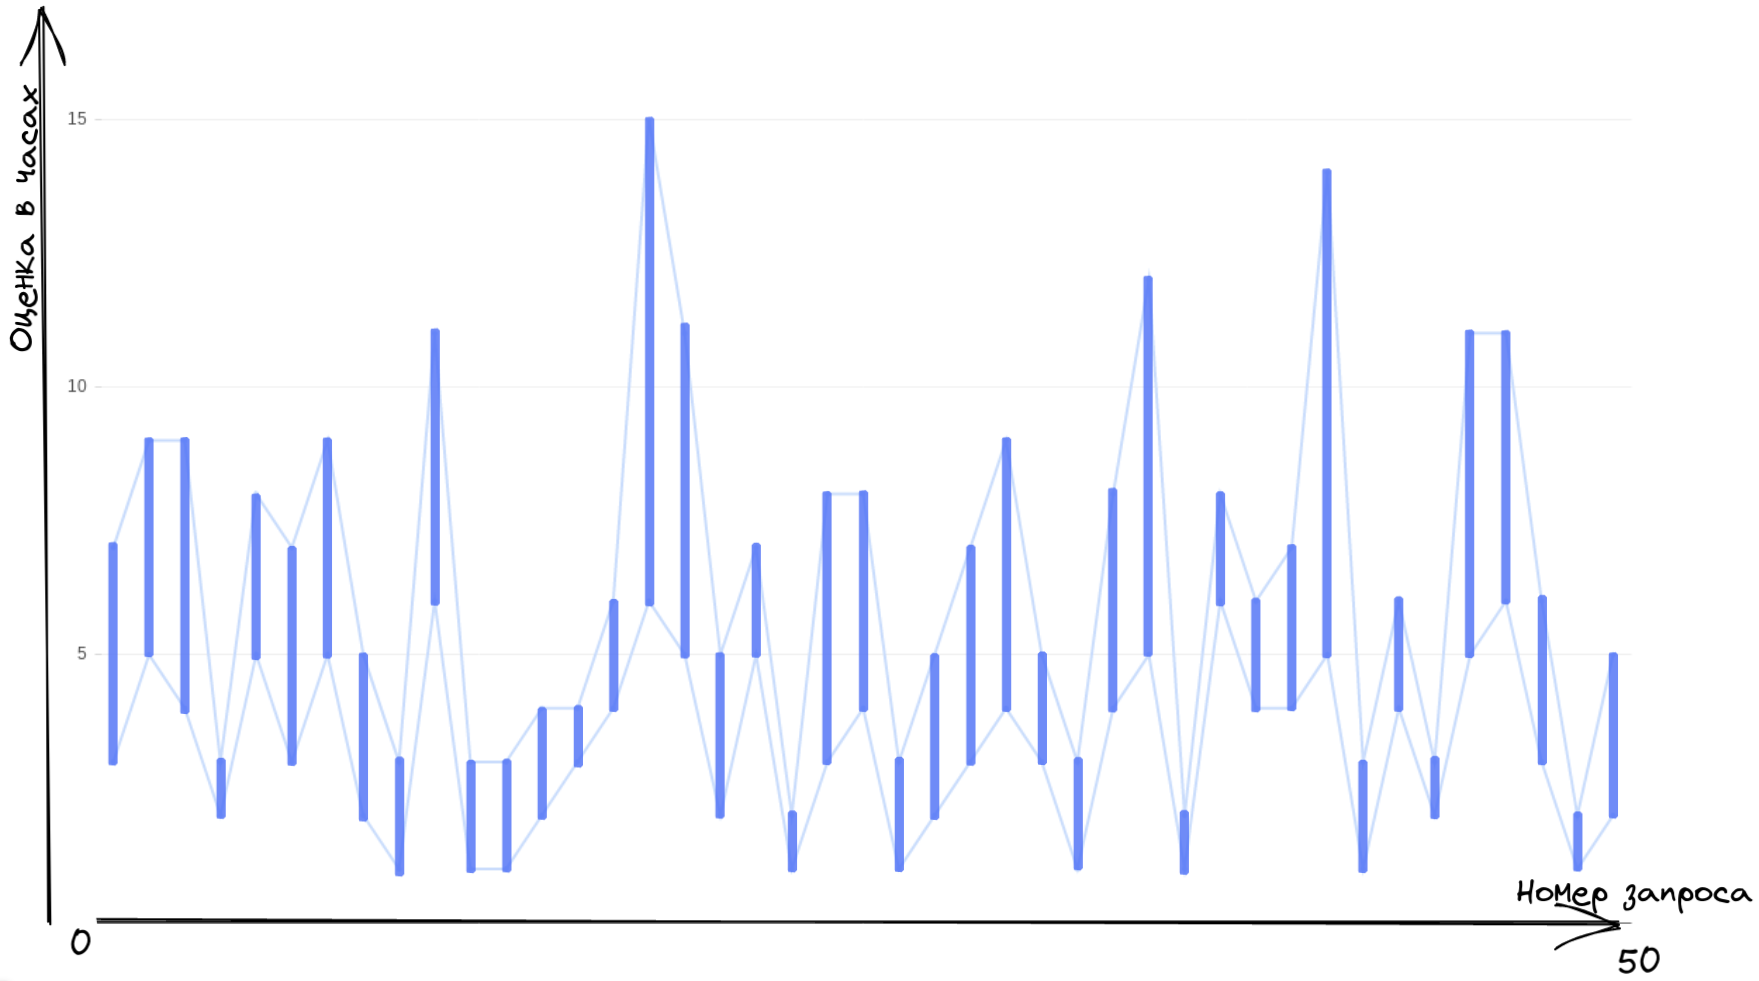
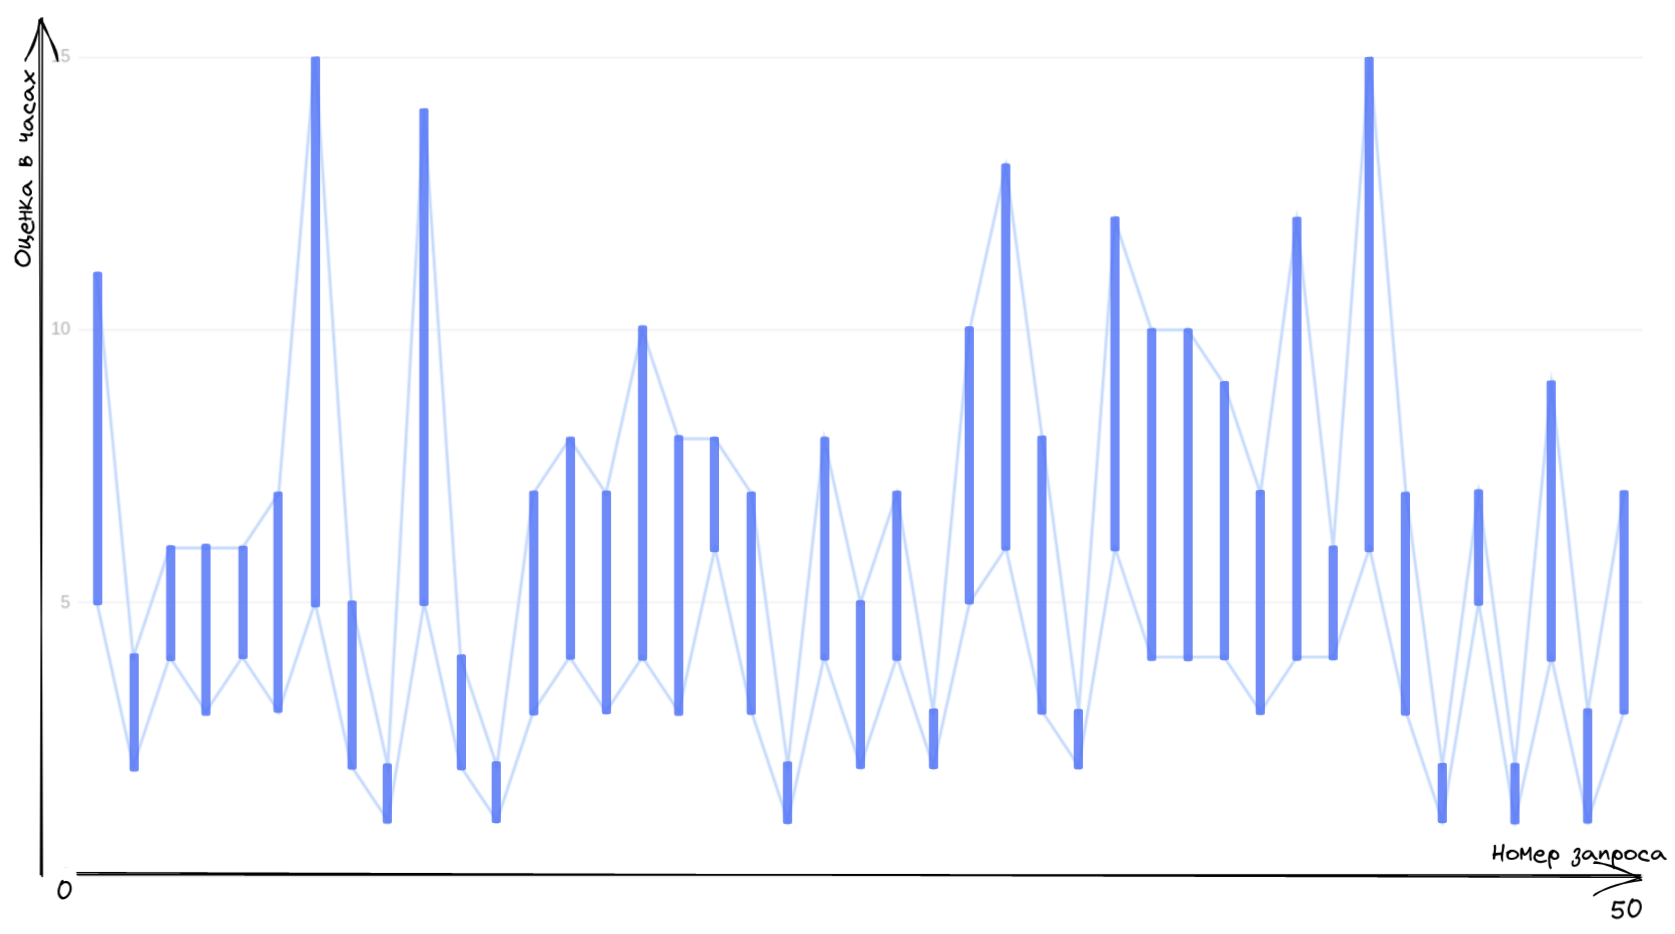
Добавил про сумму распределения вероятностей оптимистичной и пессимистичной оценки

Changed region(s): [[0.0, 0.0, 0.9934, 0.9936]]

diff --git a/posts/Вариабельность.md b/posts/Вариабельность.md
@@ -76,17 +76,17 @@
 
 Похоже что-то начинает проясняться. 
 
-Давайте уточним у Васи: "А если мы попросим Петю помочь тебе сразу же, как только ты обратишься. Если Петя будет реагировать на твои просьбы моментально, то за сколько сделаешь?"
+Давайте уточним у Васи: "Давай мы попросим Петю помочь тебе сразу же, как только ты к нему обратишься. Петя будет реагировать на твои просьбы моментально. С таким подходом за сколько сделаешь?"
 
 Вася: "Ну, в этом случае за 8 часов справлюсь!"
 
 Опа!
 
-Вот так мы отрезали длинный хвост у нашего распределения вероятностей выполнения задачи и можем с уверенностью заявлять, что Вася сделает любую работу за 8 часов!
+Вот так мы отрезали длинный хвост у нашего распределения вероятностей выполнения задачи. Теперь можем с уверенностью заявлять, что Вася сделает любую работу за 8 часов!
 
 ![Отрезали длинный хвост](res/ksnip_20220721-175234.png)
 
-Вася выдаёт оценки. Мы знаем разброс этих оценок и можем на них опираться в нашей деятельности.
+Вася выдаёт оценки. Мы знаем разброс этих оценок. А редкие неожиданные ситуации мы победили. Теперь не только Вася может говорить, что он надёжный специалист, но и мы можем быть уверены, что наша система оценки задач - надёжна и её можно успешно использовать в нашей деятельности по планированию работ.
 
 Красота-то какая! Лепота!
 
@@ -148,7 +148,7 @@
 
 ![Набор диапазонов оценок](res/ksnip_20220727-174015.png)
 
-Похоже что нам встречаются разные задачи - у одних большой размах между оптимистичной и пессиместичной оценкой у других - маленький.
+Похоже, что нам встречаются разные задачи - у одних большой размах между оптимистичной и пессимистичной оценкой у других - маленький.
 
 Поговорив с Васей, выясняем следующее:
 
@@ -161,19 +161,27 @@
 - со средней вариабельностью
 - с высокой вариабельностью.
 
-Для прогнозов с низкой вариабельностью можно взять другой масштаб для шкалы: вместо "от 4 до 6 часов" просто говорить "один рабочий день".
+![Группы вариабельностей](res/ksnip_20220730-163334.png)
+
+Прогнозы с низкой вариабельностью нас устраивают. Оценки тут вполне точные. 
 
 А вот что делать с двумя другими группами - со средней и высокой вариабельностью?
 
-Посмотрите на картинку выше. Давайте снова посмотрим как часто нам встречаются те или иные оценки. Но в этот раз сделаем два отдельных графика: По пессимистичной оценке и по оптимистичной. 
+Давайте снова посмотрим на количество оценок внутри группы со средней и с высокой вариабельностью. В этот раз сделаем два отдельных графика: По пессимистичной оценке и по оптимистичной. 
 
 
+Нужнен график различий между оптимистичной оценко
+
+
+
+--
 
 ### Как нам найти это препятствие к точному прогнозу? 
-
+--
 
 ### Сможем ли мы что-то сделать с этим препятствием для повышения точности прогноза?
 
+--
 
 
 
@@ -181,6 +189,11 @@
 # Вариабельность присуща любому повторяющемуся процессу.
 
 
+Выводы:
+- Чем лучше мы работаем с выбросами вариабельности, тем большая надёжность у наших оценок.
+- Выбросы вареабельности случаются, когда мы сталкиваемся с конфликтом в системе. Вася как система продолжает быть надёжным, но более высокая система почему-то не наследует это свойство надёжности. Чотобы это наследование произошло, необходимо обнаружить в  чем состоит конфликт и разрешить его.
+
+- Распределение вейбула получается от самого факта существования неопределённости в оценках. Чем больше неопределённость заложенная в наши оценки, тем длиннее хвост у распределения.
 
 
 ------
